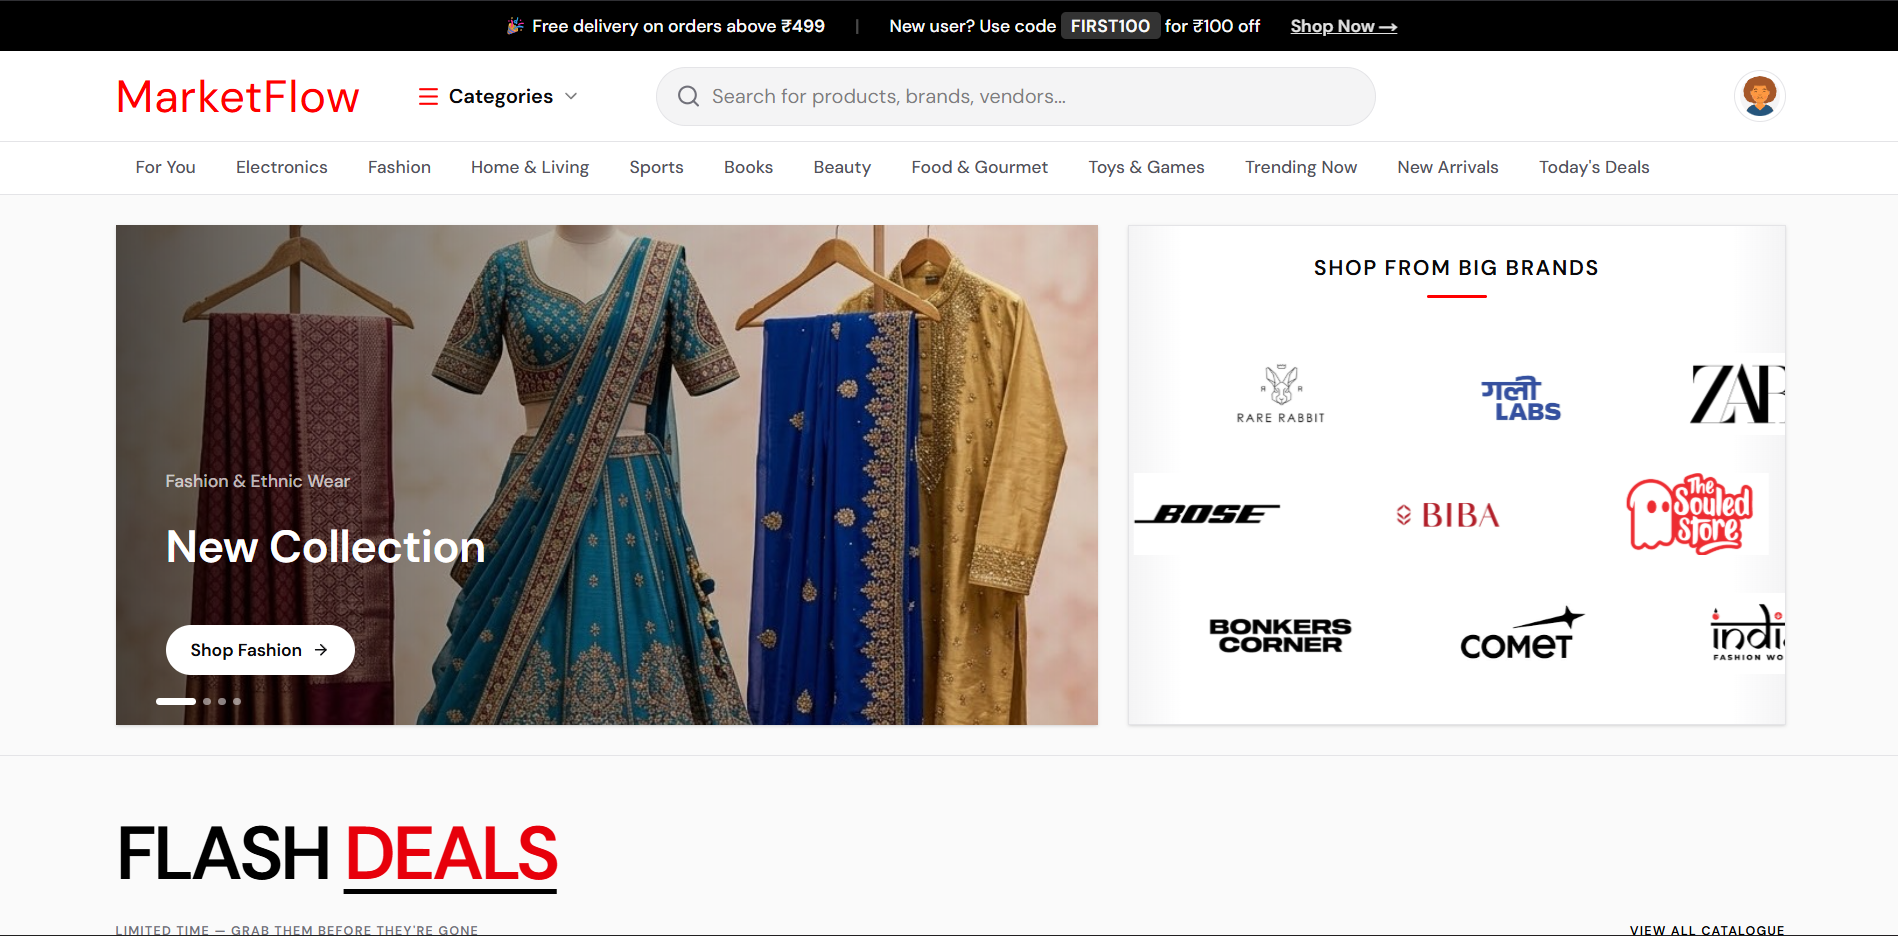
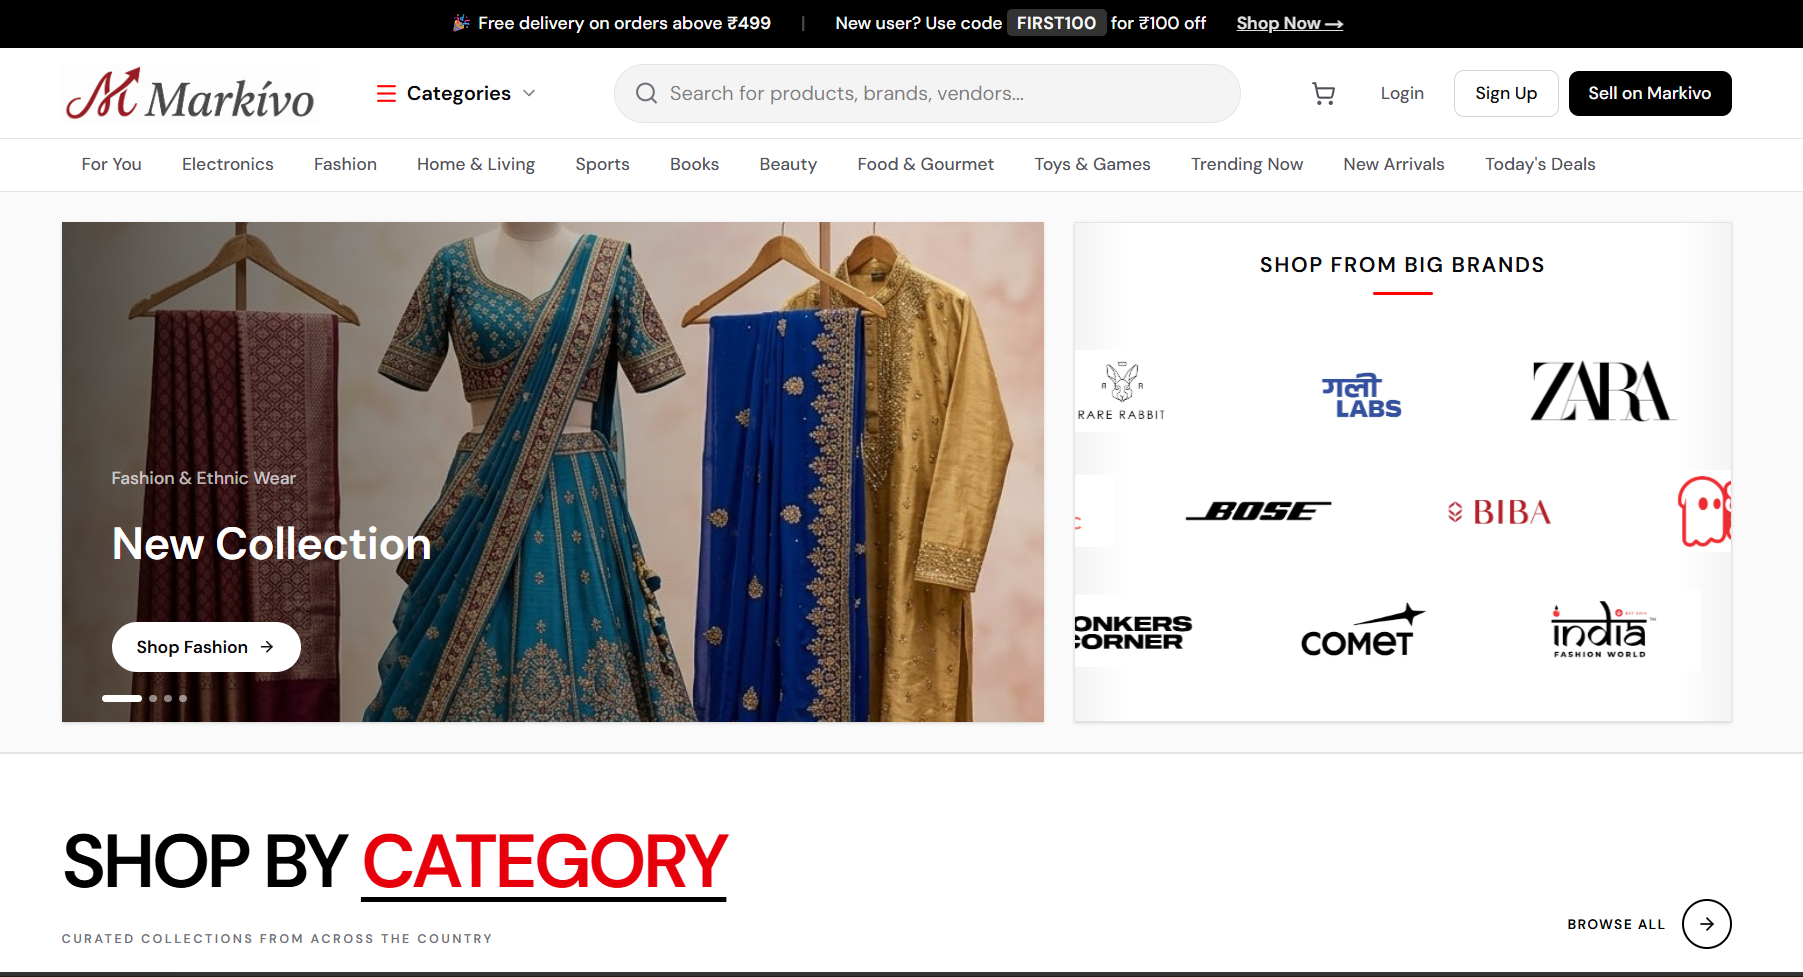
enhance: optimize project card layout, enable timer-based previews on desktop, and remove preview badges
- Restructure project card flex layout on homepage by adding `min-w-0` to the details column to prevent layout squeezing.
- Position both halftone graphic and screenshot images using `absolute inset-0 m-auto max-w-full max-h-full w-auto h-auto` to center them, preserve aspect ratios, prevent cropping, and keep direct borders/shadows wrapping the content cleanly.
- Enable automatic 3.5s transition/switch between halftone graphics and screenshots on laptop/desktop viewports (with hover override support).

diff --git a/landing_page/app/page.tsx b/landing_page/app/page.tsx
@@ -14,6 +14,7 @@ interface Project {
   liveUrl?: string;
   image?: string;
   logoUrl?: string;
+  screenshot?: string;
 }
 
 // BrandIcon component using simpleicons mask
@@ -87,6 +88,14 @@ const techStack = [
 
 export default function Home() {
   const [activeSection, setActiveSection] = useState("hero");
+  const [showScreenshot, setShowScreenshot] = useState(false);
+
+  useEffect(() => {
+    const interval = setInterval(() => {
+      setShowScreenshot((prev) => !prev);
+    }, 3500);
+    return () => clearInterval(interval);
+  }, []);
 
   const [dynamicWordIndex, setDynamicWordIndex] = useState(0);
   const words = ["FUN", "INNOVATION", "LEARNING", "COLLABORATION"];
@@ -275,8 +284,9 @@ export default function Home() {
       ],
       githubUrl: "https://github.com/Priyankm23/Cadence-backend",
       liveUrl: "https://cadence-meeting-intelligence.vercel.app/",
-      image: "/cadence.png",
+      image: "/cadence_graphic.png",
       logoUrl: "/cadence_logo.png",
+      screenshot: "/cadence.png",
     },
     {
       title: "Markivo",
@@ -287,9 +297,9 @@ export default function Home() {
       tags: ["Express", "PostgreSQL", "Redis", "BullMQ", "Prisma", "Zod"],
       githubUrl: "https://github.com/Priyankm23/marketflow",
       liveUrl: "https://marketflow-your-one-stop-shop.vercel.app/",
-      image:
-        "https://lh3.googleusercontent.com/aida-public/AB6AXuDCaSrNF-c3XvGDxzmwLCgO51fCbAbhYKALOpXlmRlPrd-6MbVFhO9F6Ch1sTfUfCKhHEh4ND0iQoV4Kre6WtVcdFYCEKWTV_OT2wEkg7P1qY2rk8Pk1n5t9_3zCkHovZdSecE_jptiCbyHX5cdcb5FdQ0jF8h2EFY715ZB3OhYVUByKU5T4OTGHPXYN9kB2LRhJR35xU5TXoQkEwsEb08fNJse9kX8QF9zoszIo5R-pbPcVzFpn_QAbQrIcLHWe8my75DLxFxKtQa8",
+      image: "/markivo_graphic.png",
       logoUrl: "/markivo_logo.png",
+      screenshot: "/marketflow.png",
     },
     {
       title: "SafeTrail",
@@ -300,7 +310,9 @@ export default function Home() {
       tags: ["Express", "MongoDB", "Socket.IO", "Ethers.js", "Redis"],
       githubUrl: "https://github.com/Priyankm23/safetrail",
       liveUrl: "https://safetrail-your-safety-in-your-mobile.vercel.app/",
+      image: "/safetrail_graphic.png",
       logoUrl: "/safetrail_logo.png",
+      screenshot: "/safetrail.png",
     },
     /*
     {
@@ -901,63 +913,99 @@ export default function Home() {
             </h2>
 
             {/* Brutalist Grid Cards */}
-            <div className="grid grid-cols-1 md:grid-cols-2 gap-8">
+            <div className="grid grid-cols-1 gap-8">
               {projects.map((project, idx) => (
                 <div
                   key={idx}
-                  className="bg-surface border border-1px border-on-surface p-6 flex flex-col gap-4 shadow-[4px_4px_0px_0px_rgba(27,28,28,1)] hover:-translate-y-1 transition-transform duration-200"
+                  className={`bg-surface border border-1px border-on-surface flex flex-col ${idx % 2 === 0 ? "md:flex-row" : "md:flex-row-reverse"} shadow-[4px_4px_0px_0px_rgba(27,28,28,1)] hover:-translate-y-1 transition-transform duration-200 group overflow-hidden`}
                 >
-                  <div className="flex justify-between items-start border-b border-outline pb-2">
-                    <span className="bg-primary/10 border border-primary text-primary px-2 py-0.5 text-[11px] font-label-sm uppercase">
-                      {project.tech}
-                    </span>
-                    <span className="text-on-secondary-container font-mono-code text-[12px]">
-                      {project.dates}
-                    </span>
+                  {/* Left Side: Details */}
+                  <div className="flex-1 p-6 flex flex-col gap-4 justify-between min-w-0">
+                    <div>
+                      <div className="flex justify-between items-start border-b border-outline pb-2 mb-3">
+                        <span className="bg-primary/10 border border-primary text-primary px-2 py-0.5 text-[11px] font-label-sm uppercase font-bold">
+                          {project.tech}
+                        </span>
+                        <span className="text-on-secondary-container font-mono-code text-[12px]">
+                          {project.dates}
+                        </span>
+                      </div>
+                      <h3 className="font-headline-md text-[30px] leading-none text-on-surface uppercase tracking-tight flex items-center gap-3">
+                        {project.logoUrl && (
+                          <img
+                            src={project.logoUrl}
+                            alt={`${project.title} logo`}
+                            className="w-12 h-12 object-contain border border-on-surface bg-white p-1.5 rounded-sm shadow-[1.5px_1.5px_0px_0px_rgba(27,28,28,1)] mix-blend-multiply"
+                          />
+                        )}
+                        <span>{project.title}</span>
+                      </h3>
+                      <p className="font-body-md text-[14px] text-on-secondary-container leading-relaxed mt-3">
+                        {project.description}
+                      </p>
+                    </div>
+
+                    <div>
+                      <div className="flex flex-wrap gap-1.5 mb-4">
+                        {project.tags.map((tag, tagIdx) => (
+                          <span
+                            key={tagIdx}
+                            className="border-2 border-primary text-on-surface bg-transparent px-2 py-0.5 text-[11px] font-mono-code uppercase tracking-wider"
+                          >
+                            {tag}
+                          </span>
+                        ))}
+                      </div>
+
+                      <div className="flex gap-4 border-t border-outline/20 pt-3">
+                        <a
+                          href={project.githubUrl}
+                          target="_blank"
+                          rel="noreferrer"
+                          className="text-[12px] font-label-sm uppercase text-primary hover:underline flex items-center gap-1 font-bold"
+                        >
+                          SOURCE_CODE <span className="text-xs">→</span>
+                        </a>
+                        {project.liveUrl && (
+                          <a
+                            href={project.liveUrl}
+                            target="_blank"
+                            rel="noreferrer"
+                            className="text-[12px] font-label-sm uppercase text-on-surface hover:underline flex items-center gap-1 font-bold"
+                          >
+                            DEMO_LINK <span className="text-xs">→</span>
+                          </a>
+                        )}
+                      </div>
+                    </div>
                   </div>
-                  <div>
-                    <h3 className="font-headline-md text-[30px] leading-none text-on-surface uppercase tracking-tight flex items-center gap-3">
-                      {project.logoUrl && (
+
+                  {/* Right Side: Halftone Brutalist Graphic / Screenshot Transition */}
+                  <div 
+                    className={`w-full md:w-[40%] border-t md:border-t-0 ${idx % 2 === 0 ? "md:border-l" : "md:border-r"} border-on-surface relative flex items-center justify-center p-3 md:p-4 min-h-[260px] md:min-h-[340px]`}
+                    style={{
+                      backgroundColor: "var(--color-bg)",
+                      backgroundImage: "linear-gradient(rgba(27,28,28,0.06) 1px, transparent 1px), linear-gradient(90deg, rgba(27,28,28,0.06) 1px, transparent 1px)",
+                      backgroundSize: "20px 20px"
+                    }}
+                  >
+                    {project.image && (
+                      <div className="relative w-full h-full">
+                        {/* Halftone graphic (Default) */}
                         <img
-                          src={project.logoUrl}
-                          alt={`${project.title} logo`}
-                          className="w-12 h-12 object-contain border border-on-surface bg-white p-1.5 rounded-sm shadow-[1.5px_1.5px_0px_0px_rgba(27,28,28,1)] mix-blend-multiply"
+                          src={project.image}
+                          alt={`${project.title} Graphic`}
+                          className={`absolute inset-0 m-auto max-w-full max-h-full w-auto h-auto object-contain select-none pointer-events-none group-hover:scale-105 group-hover:rotate-[2deg] transition-all duration-500 ${showScreenshot && project.screenshot ? "opacity-0" : "opacity-100"} ${project.screenshot ? "group-hover:opacity-0" : ""}`}
                         />
-                      )}
-                      <span>{project.title}</span>
-                    </h3>
-                    <p className="font-body-md text-[14px] text-on-secondary-container leading-relaxed mt-2">
-                      {project.description}
-                    </p>
-                  </div>
-                  <div className="flex flex-wrap gap-1.5 mt-auto">
-                    {project.tags.map((tag, tagIdx) => (
-                      <span
-                        key={tagIdx}
-                        className="border-2 border-primary text-on-surface bg-transparent px-2 py-0.5 text-[11px] font-mono-code uppercase tracking-wider"
-                      >
-                        {tag}
-                      </span>
-                    ))}
-                  </div>
-                  <div className="flex gap-4 border-t border-outline/20 pt-3 mt-2">
-                    <a
-                      href={project.githubUrl}
-                      target="_blank"
-                      rel="noreferrer"
-                      className="text-[12px] font-label-sm uppercase text-primary hover:underline flex items-center gap-1"
-                    >
-                      SOURCE_CODE <span className="text-xs">→</span>
-                    </a>
-                    {project.liveUrl && (
-                      <a
-                        href={project.liveUrl}
-                        target="_blank"
-                        rel="noreferrer"
-                        className="text-[12px] font-label-sm uppercase text-on-surface hover:underline flex items-center gap-1"
-                      >
-                        DEMO_LINK <span className="text-xs">→</span>
-                      </a>
+                        {/* Actual platform screenshot (Visible on hover / mobile timer - fit cleanly!) */}
+                        {project.screenshot && (
+                          <img
+                            src={project.screenshot}
+                            alt={`${project.title} Screenshot`}
+                            className={`absolute inset-0 m-auto max-w-full max-h-full w-auto h-auto object-contain select-none pointer-events-none border border-on-surface shadow-[3px_3px_0px_0px_rgba(27,28,28,1)] group-hover:scale-105 transition-all duration-500 ${showScreenshot ? "opacity-100" : "opacity-0"} group-hover:opacity-100`}
+                          />
+                        )}
+                      </div>
                     )}
                   </div>
                 </div>
@@ -1142,8 +1190,8 @@ export default function Home() {
                 <div className="flex flex-col gap-8 md:gap-12 relative z-10">
                   {/* Job 1: Infosys Springboard */}
                   <div className="relative pl-10 md:pl-0 group">
-                    <div className="absolute left-0 top-2 w-6 h-6 bg-surface border border-primary flex items-center justify-center -ml-[9px] md:hidden">
-                      <div className="w-2 h-2 bg-primary group-hover:bg-on-surface transition-colors duration-0"></div>
+                    <div className="absolute left-0 top-2.5 w-4 h-4 bg-surface border-2 border-primary rounded-full flex items-center justify-center -ml-[8px] md:hidden">
+                      <div className="w-1.5 h-1.5 bg-primary rounded-full group-hover:bg-on-surface transition-colors duration-0"></div>
                     </div>
                     <div className="border border-brutal bg-surface-container-lowest p-5 hover:border-on-surface transition-colors duration-0">
                       <div className="flex flex-col md:flex-row md:justify-between md:items-baseline mb-4 border-b border-outline/30 pb-3">